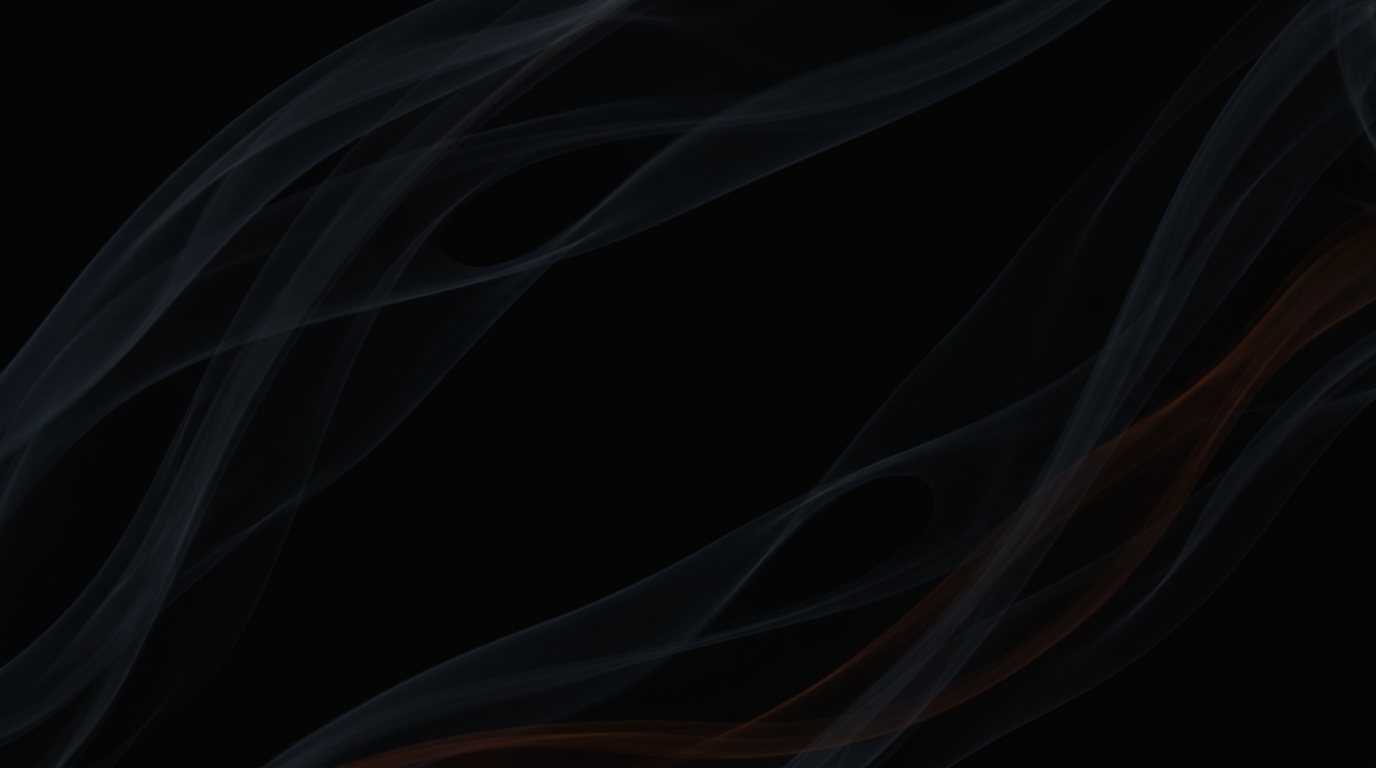
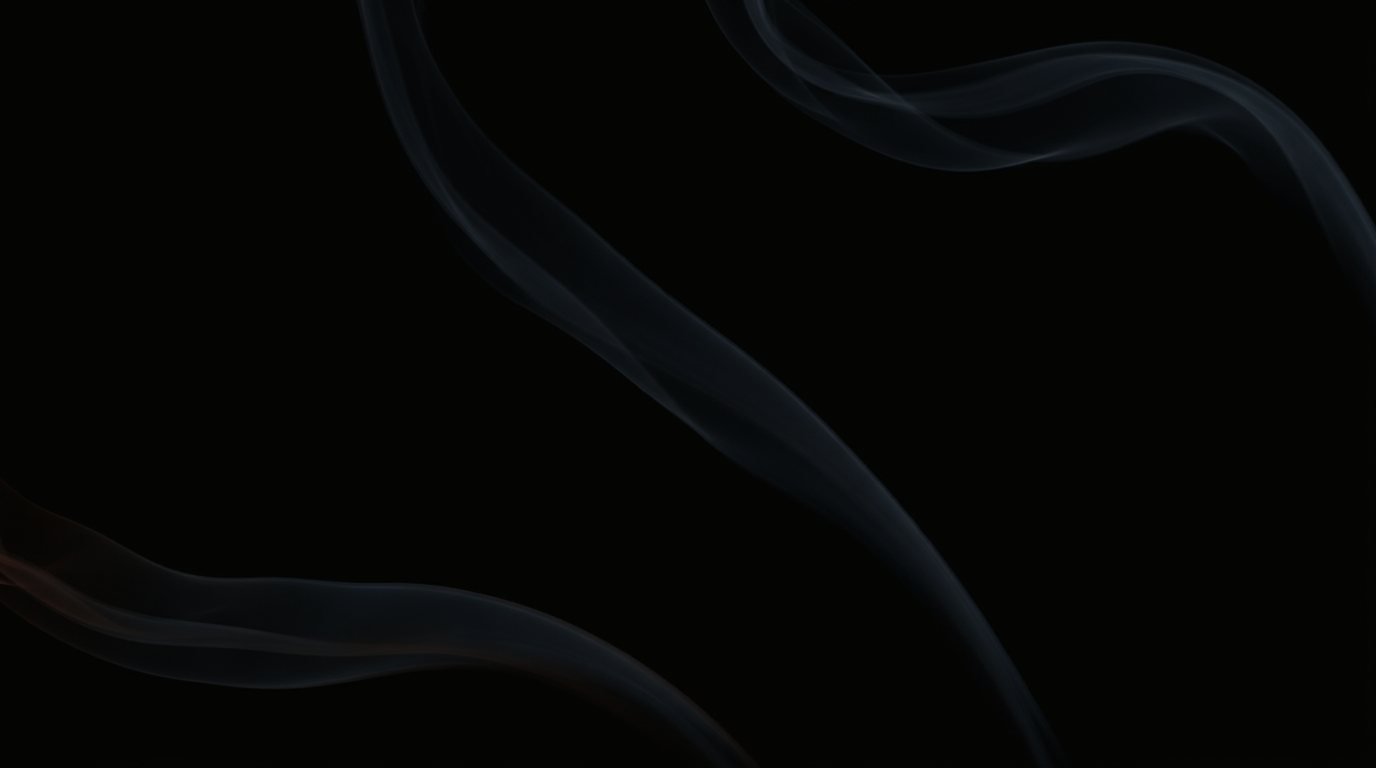
Four phases: calmer three-ribbon backdrop, scroll-driven fade at both seams
Replaced the dense plate with three separated ribbons (~70% empty black).
Backdrop moved to a ::before layer whose opacity the ring scroll handler
drives: 0 at entry so the hand-off from the mesh scroll stays pure black,
full by ~18% of the pin, fading back out before Industries. Stamps: styles
v11, pages v10, image ?v=2.

diff --git a/styles.css b/styles.css
@@ -719,9 +719,13 @@ html.lenis, html.lenis body { height: auto; }
    ring as you scroll, the left copy + bottom tabs track phase.
    ============================================================ */
 .ring-sec { position: relative; height: 360vh; z-index: var(--z-content); }
-.ring-sticky { position: sticky; top: 0; min-height: 100vh; display: flex; align-items: center; padding: var(--nav-h) var(--pad-x) clamp(4rem,8vh,6rem); overflow: hidden;
-  /* generated streamline backdrop: pre-dimmed to sit behind the dial */
-  background: url("assets/ring-bg.jpg") center / cover no-repeat; }
+.ring-sticky { position: sticky; top: 0; min-height: 100vh; display: flex; align-items: center; padding: var(--nav-h) var(--pad-x) clamp(4rem,8vh,6rem); overflow: hidden; }
+/* generated streamline backdrop on its own layer: the ring's scroll handler
+   drives --ringbg from 0 so the section enters pure black (cohesive with the
+   mesh scroll above) and the ribbons fade in once the stage is pinned */
+.ring-sticky::before { content: ""; position: absolute; inset: 0; z-index: 0;
+  background: url("assets/ring-bg.jpg?v=2") center / cover no-repeat;
+  opacity: var(--ringbg, 0); }
 .ring-grid { position: relative; z-index: 1; width: min(100%, 1280px); margin-inline: auto; display: grid; grid-template-columns: 1fr 1fr; gap: clamp(2rem, 5vw, 5rem); align-items: center; }
 
 .ring-copy { max-width: 30ch; }

diff --git a/orange.html b/orange.html
@@ -18,8 +18,8 @@
   <link rel="preconnect" href="https://fonts.googleapis.com" />
   <link rel="preconnect" href="https://fonts.gstatic.com" crossorigin />
   <link href="https://fonts.googleapis.com/css2?family=Saira+Semi+Condensed:wght@300;400;500;600&family=Geist:wght@300;400;500;600&family=Geist+Mono:wght@400;500&display=swap" rel="stylesheet" />
-  <link rel="stylesheet" href="styles.css?v=10" />
-  <link rel="stylesheet" href="orange-theme.css?v=10" />
+  <link rel="stylesheet" href="styles.css?v=11" />
+  <link rel="stylesheet" href="orange-theme.css?v=11" />
 </head>
 <body>
   <div class="hero-art" aria-hidden="true"></div>
@@ -441,7 +441,7 @@
   <script src="https://cdnjs.cloudflare.com/ajax/libs/pako/2.1.0/pako.min.js" defer></script>
   <script src="airfoil.js?v=9" defer></script>
   <script src="site.js?v=9" defer></script>
-  <script src="pages.js?v=9" defer></script>
+  <script src="pages.js?v=10" defer></script>
   <script src="waitlist.js?v=9" defer></script>
 </body>
 </html>

diff --git a/steel.html b/steel.html
@@ -18,8 +18,8 @@
   <link rel="preconnect" href="https://fonts.googleapis.com" />
   <link rel="preconnect" href="https://fonts.gstatic.com" crossorigin />
   <link href="https://fonts.googleapis.com/css2?family=Saira+Semi+Condensed:wght@300;400;500;600&family=Geist:wght@300;400;500;600&family=Geist+Mono:wght@400;500&display=swap" rel="stylesheet" />
-  <link rel="stylesheet" href="styles.css?v=10" />
-  <link rel="stylesheet" href="steel-theme.css?v=10" />
+  <link rel="stylesheet" href="styles.css?v=11" />
+  <link rel="stylesheet" href="steel-theme.css?v=11" />
 </head>
 <body>
   <div class="hero-art" aria-hidden="true"></div>
@@ -441,7 +441,7 @@
   <script src="https://cdnjs.cloudflare.com/ajax/libs/pako/2.1.0/pako.min.js" defer></script>
   <script src="airfoil.js?v=9" defer></script>
   <script src="site.js?v=9" defer></script>
-  <script src="pages.js?v=9" defer></script>
+  <script src="pages.js?v=10" defer></script>
   <script src="waitlist.js?v=9" defer></script>
 </body>
 </html>

diff --git a/index.html b/index.html
@@ -18,7 +18,7 @@
   <link rel="preconnect" href="https://fonts.googleapis.com" />
   <link rel="preconnect" href="https://fonts.gstatic.com" crossorigin />
   <link href="https://fonts.googleapis.com/css2?family=Saira+Semi+Condensed:wght@300;400;500;600&family=Geist:wght@300;400;500;600&family=Geist+Mono:wght@400;500&display=swap" rel="stylesheet" />
-  <link rel="stylesheet" href="styles.css?v=10" />
+  <link rel="stylesheet" href="styles.css?v=11" />
 </head>
 <body>
   <div class="hero-art" aria-hidden="true"></div>
@@ -440,7 +440,7 @@
   <script src="https://cdnjs.cloudflare.com/ajax/libs/pako/2.1.0/pako.min.js" defer></script>
   <script src="airfoil.js?v=9" defer></script>
   <script src="site.js?v=9" defer></script>
-  <script src="pages.js?v=9" defer></script>
+  <script src="pages.js?v=10" defer></script>
   <script src="waitlist.js?v=9" defer></script>
 </body>
 </html>

diff --git a/technology.html b/technology.html
@@ -18,7 +18,7 @@
   <link rel="preconnect" href="https://fonts.googleapis.com" />
   <link rel="preconnect" href="https://fonts.gstatic.com" crossorigin />
   <link href="https://fonts.googleapis.com/css2?family=Saira+Semi+Condensed:wght@300;400;500;600&family=Geist:wght@300;400;500;600&family=Geist+Mono:wght@400;500&display=swap" rel="stylesheet" />
-  <link rel="stylesheet" href="styles.css?v=10" />
+  <link rel="stylesheet" href="styles.css?v=11" />
 </head>
 <body>
   <div class="page-bg" aria-hidden="true"></div>
@@ -244,7 +244,7 @@
 
   <script src="https://cdn.jsdelivr.net/npm/lenis@1.1.20/dist/lenis.min.js" defer></script>
   <script src="site.js?v=9" defer></script>
-  <script src="pages.js?v=9" defer></script>
+  <script src="pages.js?v=10" defer></script>
   <script src="waitlist.js?v=9" defer></script>
 </body>
 </html>

diff --git a/contact.html b/contact.html
@@ -18,7 +18,7 @@
   <link rel="preconnect" href="https://fonts.googleapis.com" />
   <link rel="preconnect" href="https://fonts.gstatic.com" crossorigin />
   <link href="https://fonts.googleapis.com/css2?family=Saira+Semi+Condensed:wght@300;400;500;600&family=Geist:wght@300;400;500;600&family=Geist+Mono:wght@400;500&display=swap" rel="stylesheet" />
-  <link rel="stylesheet" href="styles.css?v=10" />
+  <link rel="stylesheet" href="styles.css?v=11" />
 </head>
 <body>
   <div class="page-bg" aria-hidden="true"></div>
@@ -77,7 +77,7 @@
 
   <script src="https://cdn.jsdelivr.net/npm/lenis@1.1.20/dist/lenis.min.js" defer></script>
   <script src="site.js?v=9" defer></script>
-  <script src="pages.js?v=9" defer></script>
+  <script src="pages.js?v=10" defer></script>
   <script src="waitlist.js?v=9" defer></script>
 </body>
 </html>

diff --git a/pages.js b/pages.js
@@ -133,6 +133,10 @@
       const rect = ring.getBoundingClientRect();
       const scrollable = ring.offsetHeight - window.innerHeight;
       const p = clamp(-rect.top / Math.max(scrollable, 1), 0, 1);
+      /* backdrop breathes in over the first ~18% of the pin and back out
+         at the end, so both seams stay pure black */
+      ring.style.setProperty("--ringbg",
+        Math.min(clamp(p * 5.5, 0, 1), clamp((1 - p) * 8, 0, 1)).toFixed(3));
       // marker travels the full circle starting at the top (-90°)
       const ang = (-90 + p * 360) * (Math.PI / 180);
       if (svgMarker) {

diff --git a/engine.html b/engine.html
@@ -18,7 +18,7 @@
   <link rel="preconnect" href="https://fonts.googleapis.com" />
   <link rel="preconnect" href="https://fonts.gstatic.com" crossorigin />
   <link href="https://fonts.googleapis.com/css2?family=Saira+Semi+Condensed:wght@300;400;500;600&family=Geist:wght@300;400;500;600&family=Geist+Mono:wght@400;500&display=swap" rel="stylesheet" />
-  <link rel="stylesheet" href="styles.css?v=10" />
+  <link rel="stylesheet" href="styles.css?v=11" />
   <link rel="stylesheet" href="engine.css?v=8" />
 </head>
 <body>
